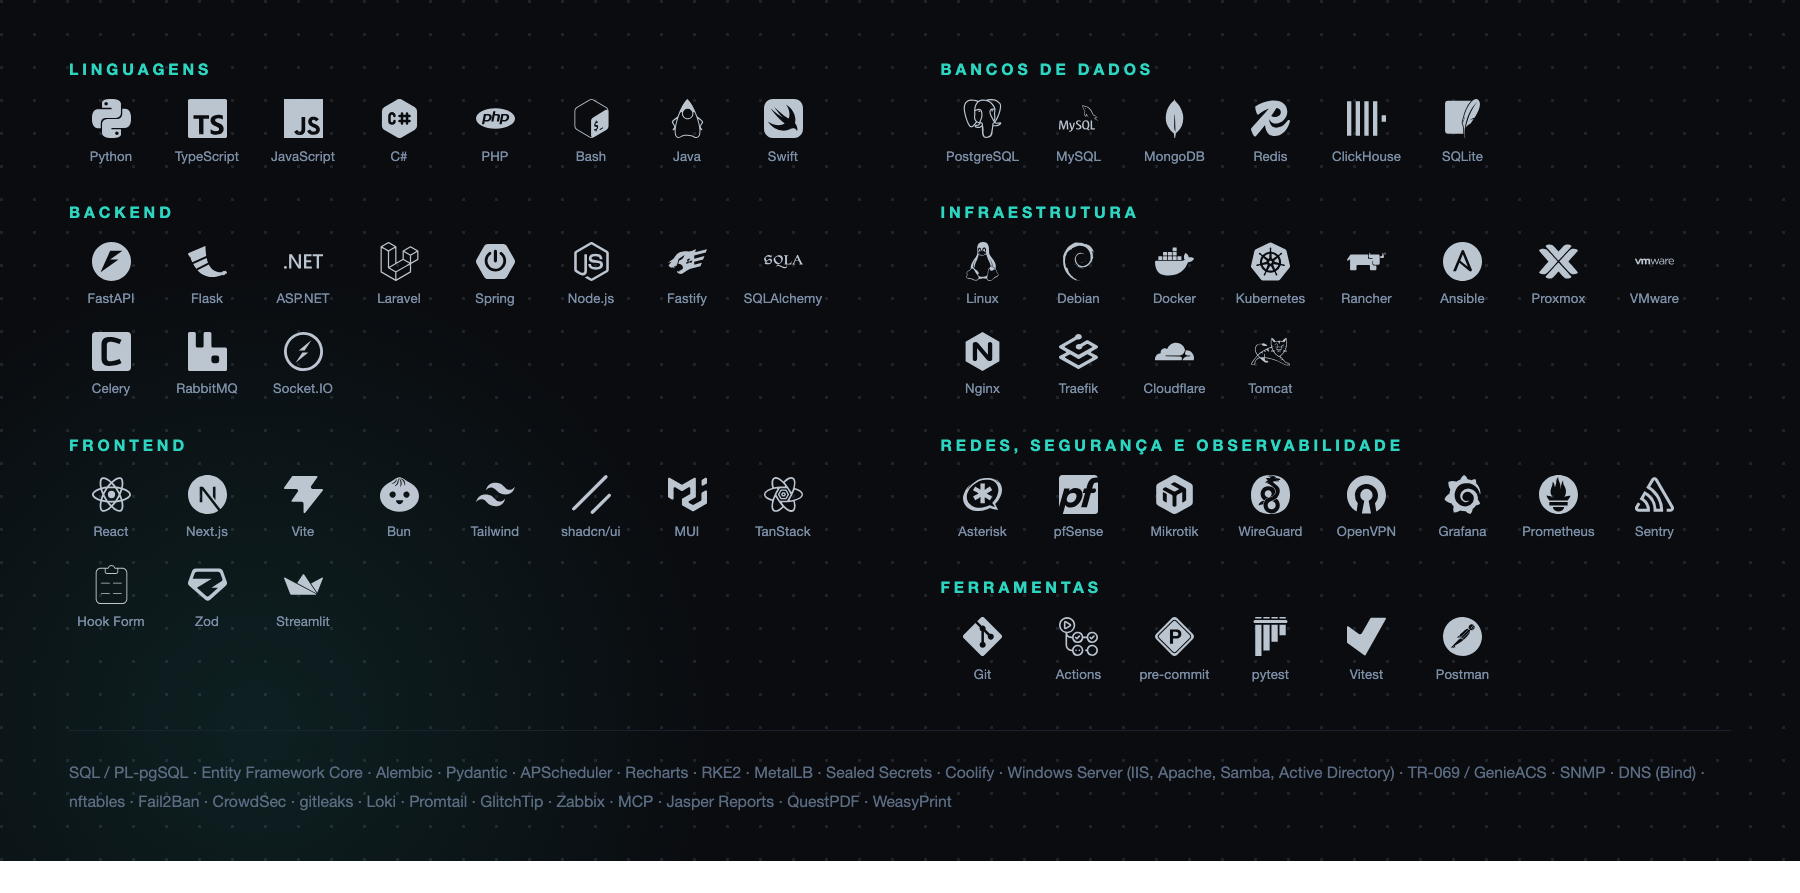
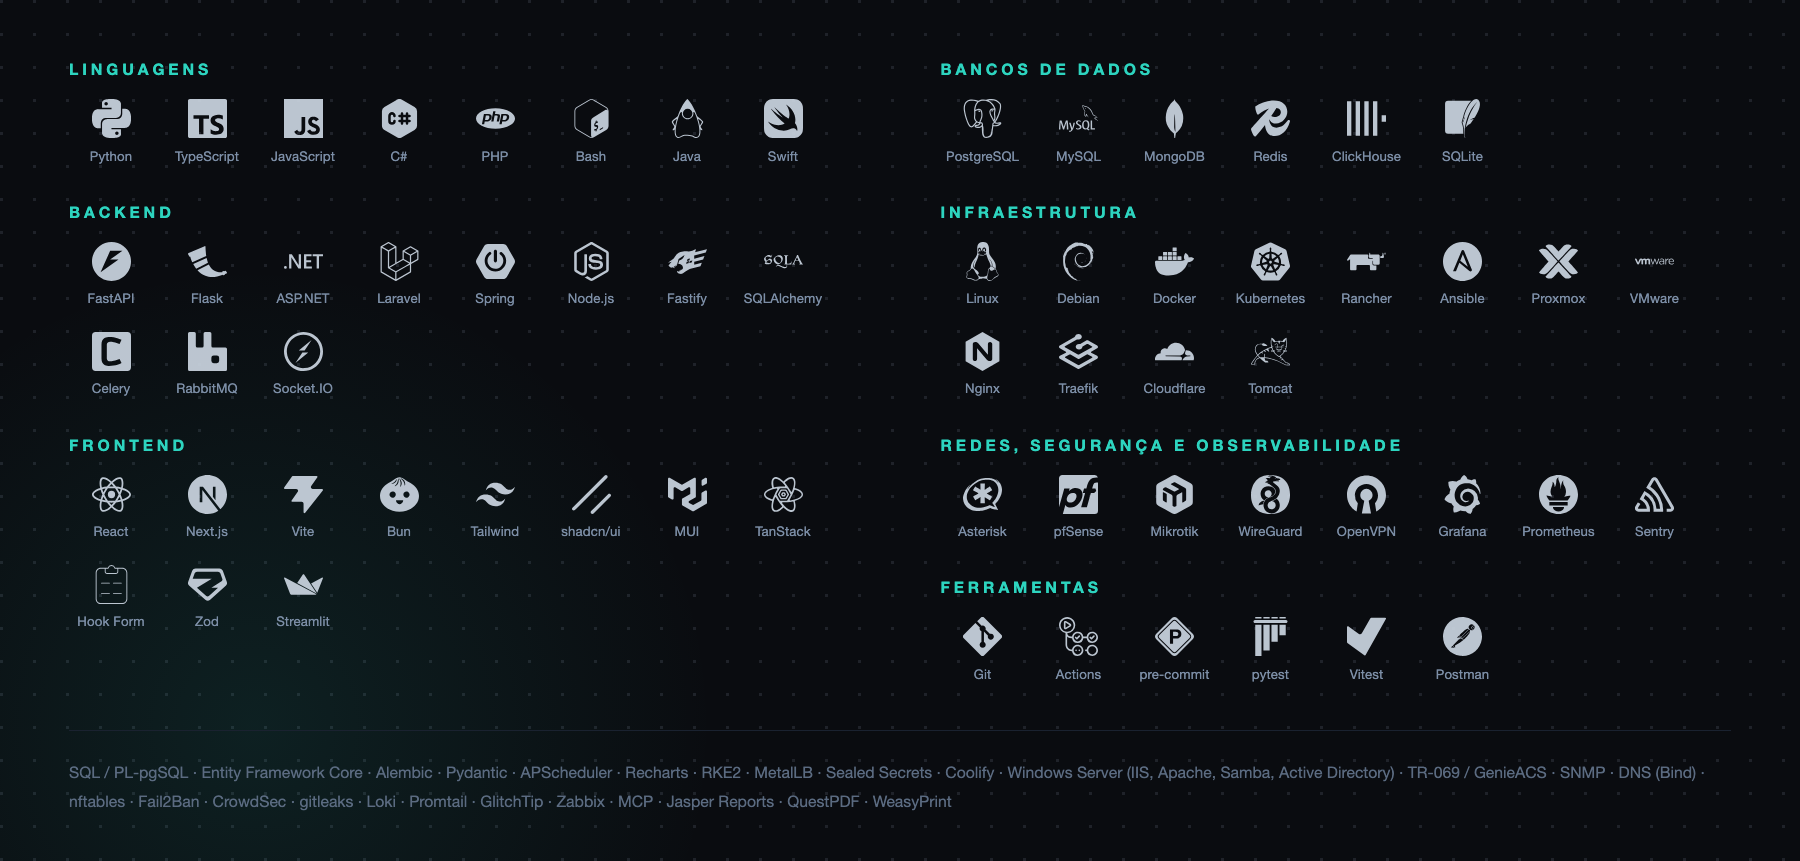
fix(profile): remove a faixa branca no rodapé do card de stack
O card tem 574px de altura e vinha sendo renderizado numa janela de 595,
então 21px do body branco apareciam embaixo. Recorta na altura exata e
pinta o body com a cor do card, para o descuido não se repetir.

diff --git a/assets/gen_stack.py b/assets/gen_stack.py
@@ -78,7 +78,7 @@ OUT.write_text(f"""<!doctype html>
 <meta charset="utf-8">
 <style>
   * {{ margin:0; padding:0; box-sizing:border-box; }}
-  html,body {{ width:1200px; overflow:hidden; }}
+  html,body {{ width:1200px; overflow:hidden; background:#0a0c10; }}
   .card {{
     position:relative; width:1200px; padding:40px 46px 30px; background:#0a0c10;
     background-image: radial-gradient(circle at 1px 1px, rgba(148,163,184,.15) 1px, transparent 0);
